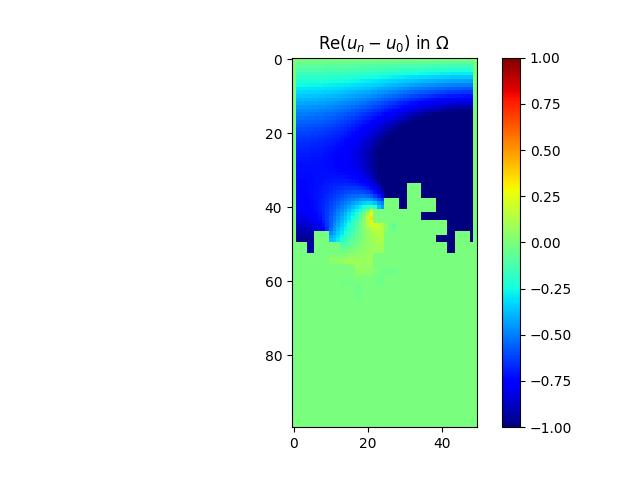
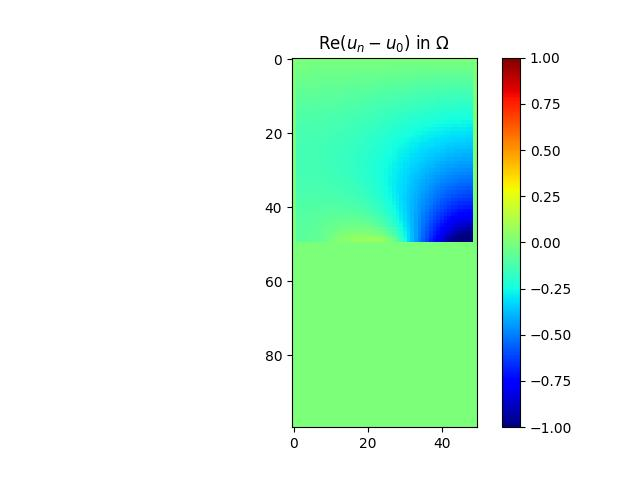
dgx

Changed region(s): [[0.4375, 0.125, 0.75, 0.5625]]

diff --git a/demo_control_polycopie2023.py b/demo_control_polycopie2023.py
@@ -162,7 +162,7 @@ def compute_projected2(chi, domain, V_obj):
     
     i = 0
     
-    while np.abs(V - V_obj) > 1e-1 and i < 100:
+    while np.abs(V - V_obj) > 1e-3 and i < 100:
         if V > V_obj:
             xmin = x
             x = (xmax + x)/2
@@ -195,16 +195,24 @@ def optimization_procedure(domain_omega, spacestep, omega, f, f_dir, f_neu, f_ro
     k = 0
     (M, N) = np.shape(domain_omega)
     numb_iter = 4
-    energy = np.zeros((numb_iter, 1), dtype=np.float64)
+    energy = []
     while k < numb_iter and mu > mu_min:
         u = processing.solve_helmholtz(domain_omega, spacestep, omega, f, f_dir, f_neu, f_rob,
                                        beta_pde, alpha_pde, alpha_dir, beta_neu, beta_rob, chi*Alpha)
         p = processing.solve_helmholtz(domain_omega, spacestep, omega, -2*np.conjugate(u), np.zeros(f_dir.shape), f_neu, f_rob,
                                        beta_pde, alpha_pde, alpha_dir, beta_neu, beta_rob, chi*Alpha)
         ene = compute_objective_function(domain_omega, u, spacestep)
-        energy[k] = ene
         grad = -np.real(Alpha * p * u)
-        while ene >= energy[k] and mu > mu_min:
+        
+        if len(energy) == 0:
+            energy.append(ene)
+        elif ene < energy[-1]:
+            energy.append(ene)
+            
+        comp_ene = energy[-1]
+        
+        _chi = None
+        while ene >= comp_ene/1.5 and mu > mu_min:
             new_chi = chi.copy()
             new_chi = compute_gradient_descent(new_chi, grad, domain_omega, mu)
             new_chi = compute_projected(new_chi, domain_omega, V_obj)
@@ -218,15 +226,91 @@ def optimization_procedure(domain_omega, spacestep, omega, f, f_dir, f_neu, f_ro
                 # The step is decreased is the energy increased
                 mu = mu / 10
             
+            if new_ene < energy[-1]:
+                energy.append(new_ene)
+                _chi = new_chi.copy()
+            
+            
+            ene = new_ene
+        if _chi is None:
+            break
+        else:
+            chi = _chi.copy()
+        k += 1
+
+    energy = np.array(energy).reshape(-1,1)
+    return chi, energy, u, grad
+
+def multi_optimization_procedure(domain_omega, spacestep, list_omega, f, f_dir, f_neu, f_rob,
+                           beta_pde, alpha_pde, alpha_dir, beta_neu, beta_rob, alpha_rob,
+                           Alpha, mu, chi, V_obj):
+    """This function return the optimized density.
+
+    Parameter:
+        cf solvehelmholtz's remarks
+        Alpha: complex, it corresponds to the absorbtion coefficient;
+        mu: float, it is the initial step of the gradient's descent;
+        V_obj: float, it characterizes the volume constraint on the density chi.
+    """
+
+    k = 0
+    (M, N) = np.shape(domain_omega)
+    numb_iter = 4
+    energy = []
+    while k < numb_iter and mu > mu_min:
+        list_u = []
+        grad = np.zeros(chi.shape)
+        
+        for omega in list_omega:
+            u = processing.solve_helmholtz(domain_omega, spacestep, omega, f, f_dir, f_neu, f_rob,
+                                        beta_pde, alpha_pde, alpha_dir, beta_neu, beta_rob, chi*Alpha)
+            p = processing.solve_helmholtz(domain_omega, spacestep, omega, -2*np.conjugate(u), np.zeros(f_dir.shape), f_neu, f_rob,
+                                        beta_pde, alpha_pde, alpha_dir, beta_neu, beta_rob, chi*Alpha)
+            
+            list_u.append(u)
+            
+            grad += -np.real(Alpha * p * u)
+        
+        ene = compute_multi_objective_function(domain_omega, list_u, spacestep)
+        
+        if len(energy) == 0:
+            energy.append(ene)
+        elif ene < energy[-1]:
+            energy.append(ene)
+            
+        comp_ene = energy[-1]
+        
+        while ene >= comp_ene/1.5 and mu > mu_min:
+            new_chi = chi.copy()
+            new_chi = compute_gradient_descent(new_chi, grad, domain_omega, mu)
+            new_chi = compute_projected(new_chi, domain_omega, V_obj)
+            
+            list_new_u = []
+            for omega in list_omega:
+                new_u = processing.solve_helmholtz(domain_omega, spacestep, omega, f, f_dir, f_neu, f_rob,
+                                            beta_pde, alpha_pde, alpha_dir, beta_neu, beta_rob, new_chi*Alpha)
+                list_new_u.append(new_u)
+                
+            new_ene = compute_multi_objective_function(domain_omega, list_new_u, spacestep)
+            if new_ene < ene:
+                # The step is increased if the energy decreased
+                mu = mu / 2
+            else:
+                # The step is decreased is the energy increased
+                mu = mu / 10
+            
+            if new_ene < energy[-1]:
+                energy.append(new_ene)
+                _chi = new_chi.copy()
+            
             
             ene = new_ene
         
-        if ene <= energy[k]: 
-            chi = compute_projected2(new_chi, domain_omega, V_obj)
+        chi = _chi.copy()
         k += 1
 
-    energy = energy[0:k]
-    return chi, energy, u, grad
+    energy = np.array(energy).reshape(-1,1)
+    return chi, energy, list_u, grad
 
 def compute_objective_function(domain_omega, u, spacestep):
     """
@@ -246,6 +330,25 @@ def compute_objective_function(domain_omega, u, spacestep):
 
     return energy
 
+def compute_multi_objective_function(domain_omega, list_u, spacestep):
+    """
+    This function compute the objective function:
+    J(u,domain_omega)= \int_{domain_omega}||u||^2 
+
+    Parameter:
+        domain_omega: Matrix (NxP), it defines the domain and the shape of the
+        Robin frontier;
+        u: Matrix (NxP), it is the solution of the Helmholtz problem, we are
+        computing its energy;
+        spacestep: float, it corresponds to the step used to solve the Helmholtz
+        equation.
+    """
+    energy = 0
+    for u in list_u:
+        energy += compute_objective_function(domain_omega, u, spacestep)
+
+    return energy
+
 
 if __name__ == '__main__':
 
@@ -257,6 +360,8 @@ if __name__ == '__main__':
     M = 2 * N  # number of points along y-axis
     level = 0 # level of the fractal
     spacestep = 1.0 / N  # mesh size
+    
+    list_omega = np.array([180, 350, 524, 693, 862])/340
 
     # -- set parameters of the partial differential equation
     kx = -1.0
@@ -337,11 +442,15 @@ if __name__ == '__main__':
     
     _chi_rand = preprocessing._set_random_chi(M, N, x, y)
     _chi_rand = processing.set2zero(_chi_rand, domain_omega)
+    #_chi_multi, _, _, _ = multi_optimization_procedure(domain_omega, spacestep, list_omega, f, f_dir, f_neu, f_rob,
+    #                                                    beta_pde, alpha_pde, alpha_dir, beta_neu, beta_rob, alpha_rob,
+    #                                                        Alpha, mu, chi.copy(), V_obj)
     
     _E = []
     _E_grad = []
     _E_start = []
     _E_rand = []
+    _E_multi = []
     skip = 5
     
     with open('optim_alpha_g1_config1.pkl', 'rb') as file:
@@ -365,6 +474,11 @@ if __name__ == '__main__':
                                                           _alpha, mu, chi.copy(), V_obj)
         _E_grad.append(np.min(energy))
         
+        #_u_multi = processing.solve_helmholtz(domain_omega, spacestep, _k, f, f_dir, f_neu, f_rob,
+        #                beta_pde, alpha_pde, alpha_dir, beta_neu, beta_rob, _chi_multi.copy()*_alpha)
+        #_e_multi = compute_objective_function(domain_omega, _u_multi, spacestep)
+        #_E_multi.append(_e_multi)
+        
         #_u_rand = processing.solve_helmholtz(domain_omega, spacestep, _k, f, f_dir, f_neu, f_rob,
         #                beta_pde, alpha_pde, alpha_dir, beta_neu, beta_rob, _chi_rand.copy()*_alpha)
         #_e_rand = compute_objective_function(domain_omega, _u_rand, spacestep)
@@ -374,6 +488,7 @@ if __name__ == '__main__':
     plt.figure()
     plt.plot(alpha_ISOREL_OMEGA[::skip]/2/np.pi, _E, label='absorbent everywhere')
     plt.plot(alpha_ISOREL_OMEGA[::skip]/2/np.pi, _E_grad, label='gradient descent')
+    #plt.plot(alpha_ISOREL_OMEGA[::skip]/2/np.pi, _E_multi, label='multi')
     #plt.plot(alpha_ISOREL_OMEGA[::skip]/2/np.pi, _E_rand, label='random')
     #plt.plot(alpha_ISOREL_OMEGA[::skip]/2/np.pi, _E_start, label='start point')
     plt.xlabel('frequency')
@@ -389,7 +504,13 @@ if __name__ == '__main__':
                                                         beta_pde, alpha_pde, alpha_dir, beta_neu, beta_rob, alpha_rob,
                                                         Alpha, mu, chi, V_obj)
     
+    #chi, energy, u, grad = multi_optimization_procedure(domain_omega, spacestep, list_omega, f, f_dir, f_neu, f_rob,
+    #                                                    beta_pde, alpha_pde, alpha_dir, beta_neu, beta_rob, alpha_rob,
+    #                                                    Alpha, mu, chi, V_obj)
+    #u = u[0]
+    
     chin = chi.copy()
+    chin = compute_projected2(chin, domain_omega, V_obj)
     un = u.copy()
 
     # -- plot chi, u, and energy
@@ -398,5 +519,4 @@ if __name__ == '__main__':
     err = un - u0
     postprocessing._plot_error(err)
     postprocessing._plot_energy_history(energy)
-    plt.show()
     print('End.')"""
